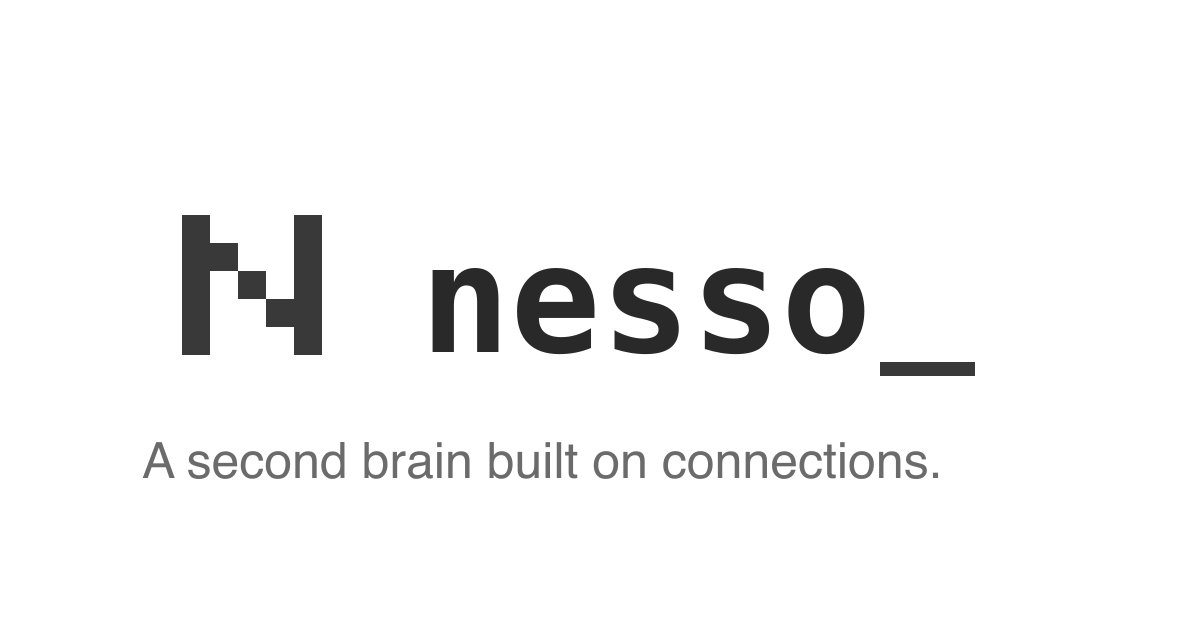
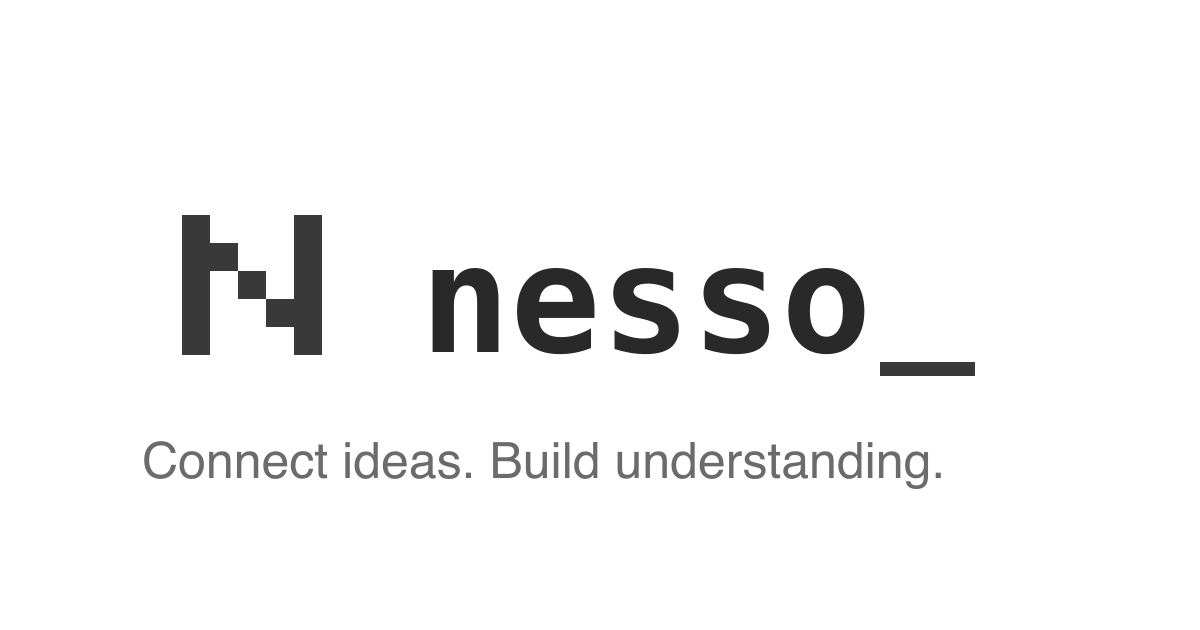
docs: refresh product descriptions across app and site

Changed region(s): [[0.1233, 0.6937, 0.7708, 0.7841]]

diff --git a/index.html b/index.html
@@ -6,7 +6,7 @@
     <link rel="icon" type="image/svg+xml" href="/favicon.svg" />
     <link rel="apple-touch-icon" href="/apple-touch-icon.png" />
     <meta name="theme-color" content="#ffffff" />
-    <meta name="description" content="A minimal knowledge graph app" />
+    <meta name="description" content="A local-first desktop app for connecting ideas and building understanding through a personal knowledge graph." />
     <meta name="viewport" content="width=device-width, initial-scale=1.0" />
     <title>Nesso</title>
   </head>

diff --git a/README.md b/README.md
@@ -3,7 +3,7 @@
 <img src="public/icon.svg" alt="Nesso" width="96">
 
 </br>
-A second brain for connecting ideas and building understanding in one knowledge graph. Built on a small core with a simple plugin system.
+A local-first desktop app for connecting ideas and building understanding through a personal knowledge graph.
 </br></br>
 
 [![CI](https://github.com/nesso-how/nesso/actions/workflows/ci.yml/badge.svg?branch=main)](https://github.com/nesso-how/nesso/actions/workflows/ci.yml)
